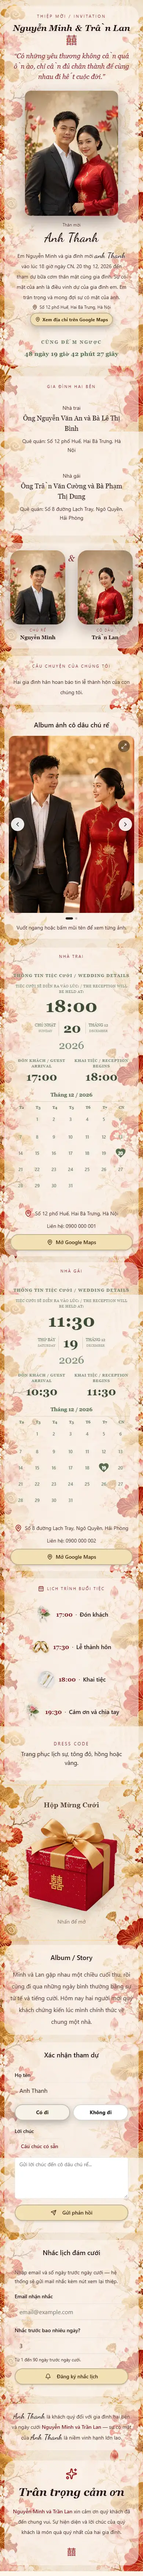
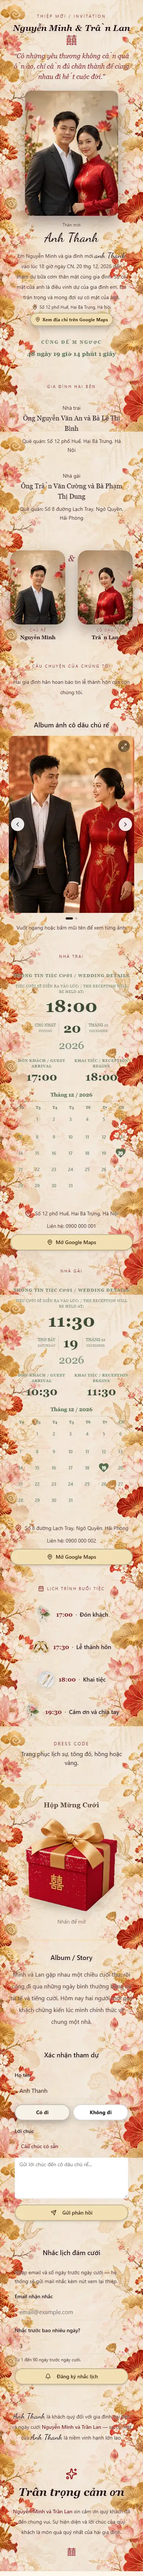
Drop the frosted reading plate on custom wedding backgrounds so the pattern stays visible, and refresh the sample scroll strips.

diff --git a/src/lib/wedding/wedding-background-presets.ts b/src/lib/wedding/wedding-background-presets.ts
@@ -1768,10 +1768,7 @@ export function applyWeddingKitTheme(theme: WeddingTheme, preset: WeddingBackgro
   }
 }
 
-/** Mặt đọc phía sau chữ khi hoa văn nền cắt ngang nét chữ. Giấy trơn thì không phủ. */
-const KHO_READING_PLATE_LIGHT = 'rgba(255,248,242,0.55)'
-const KHO_READING_PLATE_DARK = 'rgba(15,23,42,0.55)'
-
+/** Mặt đọc phía sau chữ khi hoa văn nền cắt ngang nét chữ. Giấy trơn và kho AI thì không phủ. */
 export function weddingReadingPlate(
   preset: WeddingBackgroundPreset | null | undefined,
   pageBackground: string,
@@ -1780,8 +1777,8 @@ export function weddingReadingPlate(
   if (!pageBackground.trim()) return undefined
   if (preset?.look.contentCard === 'scallop') return undefined
   if (preset?.look.surface === 'dark' && preset.look.paper) return preset.look.paper
-  // Kho AI và nền tự vẽ: tấm kem trong mờ, hoa văn còn nhìn thấy, chữ vẫn có mặt đọc.
-  if (!preset) return themeIsDark ? KHO_READING_PLATE_DARK : KHO_READING_PLATE_LIGHT
+  // Kho AI và nền tự vẽ: không tấm chữ, hoa văn hiện suốt.
+  if (!preset) return undefined
   if (preset.id.startsWith('ai-')) return themeIsDark ? '#0f172a' : '#fff8f2'
   return undefined
 }

diff --git a/src/lib/wedding/wedding-background-plates.test.ts b/src/lib/wedding/wedding-background-plates.test.ts
@@ -564,8 +564,8 @@ test('song hy red is a gate card on lacquer paper with cream reading cards', () 
   const saved = parseWeddingSectionConfig(mergeWeddingSectionConfig('{}', weddingReadyBackgroundSectionPatch(preset)))
   assert.equal(weddingReadingPlate(preset, '/wedding/backgrounds/song-hy-do.svg', false), undefined)
   assert.equal(weddingReadingPlate(findWeddingBackgroundPreset('do-son'), '/wedding/backgrounds/do-son.jpg', true), '#6e1820')
-  assert.equal(weddingReadingPlate(undefined, 'https://cdn.example/master.png', false), 'rgba(255,248,242,0.55)')
-  assert.equal(weddingReadingPlate(undefined, 'https://cdn.example/master.png', true), 'rgba(15,23,42,0.55)')
+  assert.equal(weddingReadingPlate(undefined, 'https://cdn.example/master.png', false), undefined)
+  assert.equal(weddingReadingPlate(undefined, 'https://cdn.example/master.png', true), undefined)
   assert.equal(weddingReadingPlate(weddingAiBackgroundKit('floral'), 'https://cdn.example/master.png', false), '#fff8f2')
   assert.equal(weddingReadingPlate(findWeddingBackgroundPreset('sen-vang'), '/wedding/backgrounds/sen-vang.jpg', false), undefined)
   assert.equal(saved.backgroundPresetId, 'song-hy-do')

diff --git a/src/app/globals.css b/src/app/globals.css
@@ -40,7 +40,7 @@
     font-family: "Iowan Old Style", Palatino, "Palatino Linotype", Georgia, serif;
   }
   /* Song hỷ: tấm kem trên giấy đỏ. Viền kép nằm trong tấm, không trồi ra khỏi khổ. */
-  /* Hoa văn dày: chữ ngồi trên mặt trong mờ, hoa vẫn nhìn thấy qua nền chữ. */
+  /* Mặt đọc khi thiệp bật nền chữ. Kho AI không bật, hoa văn hiện suốt. */
   [data-wedding-reading] [data-wedding-glass],
   [data-wedding-reading] .wedding-invite-body-join > div {
     background: var(--wedding-reading-plate) !important;
